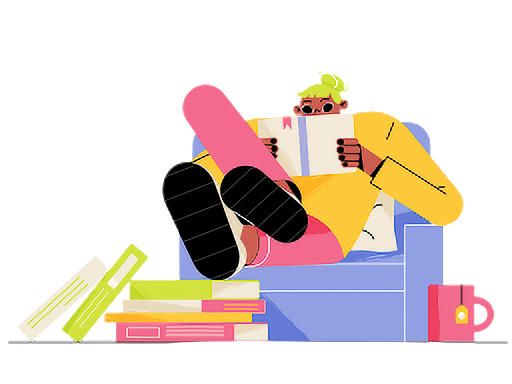
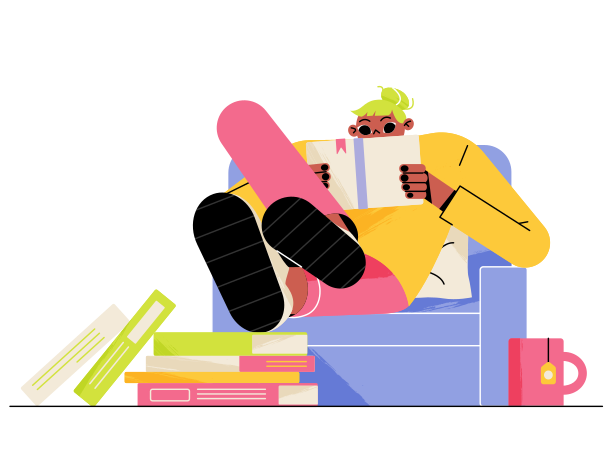
style(hero): adjust public hero formatting

diff --git a/src/styles.css b/src/styles.css
@@ -8,7 +8,8 @@
   --blue: #e9f2ec;
   --brown: #9e7353;
   --tan: #d7c3a2;
-  --gray: #dcdada;
+  --gray: #dfe0df;
+  --linkColor: #90837e;
   --textGray: #939393;
   --cardHover: #ececec;
   --textHover: #a59994;
@@ -64,6 +65,7 @@ h6 {
 p {
   font-size: 1rem;
   line-height: 1.6;
+  letter-spacing: 0.02rem;
   color: var(--text);
 }
 
@@ -77,6 +79,7 @@ button {
   border: none;
   padding: 0.75rem 1rem;
   cursor: pointer;
+  transition: background-color 0.3s;
 }
 
 .primaryBtn {
@@ -95,6 +98,10 @@ button {
   border-radius: 0.75rem;
 }
 
+.secondaryBtn:hover {
+  background-color: var(--cardHover);
+}
+
 /* Links */
 
 li {
@@ -107,7 +114,7 @@ a {
   text-decoration: none;
   font-weight: 500;
   font-size: 1rem;
-  color: var(--text);
+  color: var(--linkColor);
 }
 
 /* Input */

diff --git a/src/app/hero/hero.component.html b/src/app/hero/hero.component.html
@@ -1,12 +1,15 @@
 <section>
   <!-- Public hero -->
-  <div class="heroContainer" *ngIf="!userIsAuthenticated">
-    <div class="textWrapper">
-      <h2>Discover your next favorite read</h2>
+  <div class="publicHero" *ngIf="!userIsAuthenticated">
+    <div class="publicText">
+      <h1>Find and track all your book adventures</h1>
       <p>
-        Browse top-rated books and personalized recommendations with our app
+        Explore our vast collection of books and start tracking your reading
+        progress today
       </p>
-      <button class="primaryBtn">Get started</button>
+      <a routerLink="/signup" routerLinkActive="">
+        <button class="primaryBtn">Get started</button>
+      </a>
     </div>
     <img src="assets/images/heroImg.png" alt="" />
   </div>

diff --git a/src/app/hero/hero.component.css b/src/app/hero/hero.component.css
@@ -6,9 +6,10 @@ section {
   justify-content: center;
 }
 
-.heroContainer {
+.publicHero {
+  max-width: 1200px;
   margin: 0 5%;
-  padding: 0 5%;
+  padding: 1% 5%;
   background-color: var(--blue);
   border-radius: 20px;
   display: flex;
@@ -16,13 +17,17 @@ section {
   align-items: center;
 }
 
+.publicText {
+  max-width: 40%;
+}
+
 img {
-  width: 80%;
+  width: 60%;
 }
 
 .userHero {
   width: 100%;
-  max-width: 1400px;
+  max-width: 1200px;
 }
 
 .wrapper {
